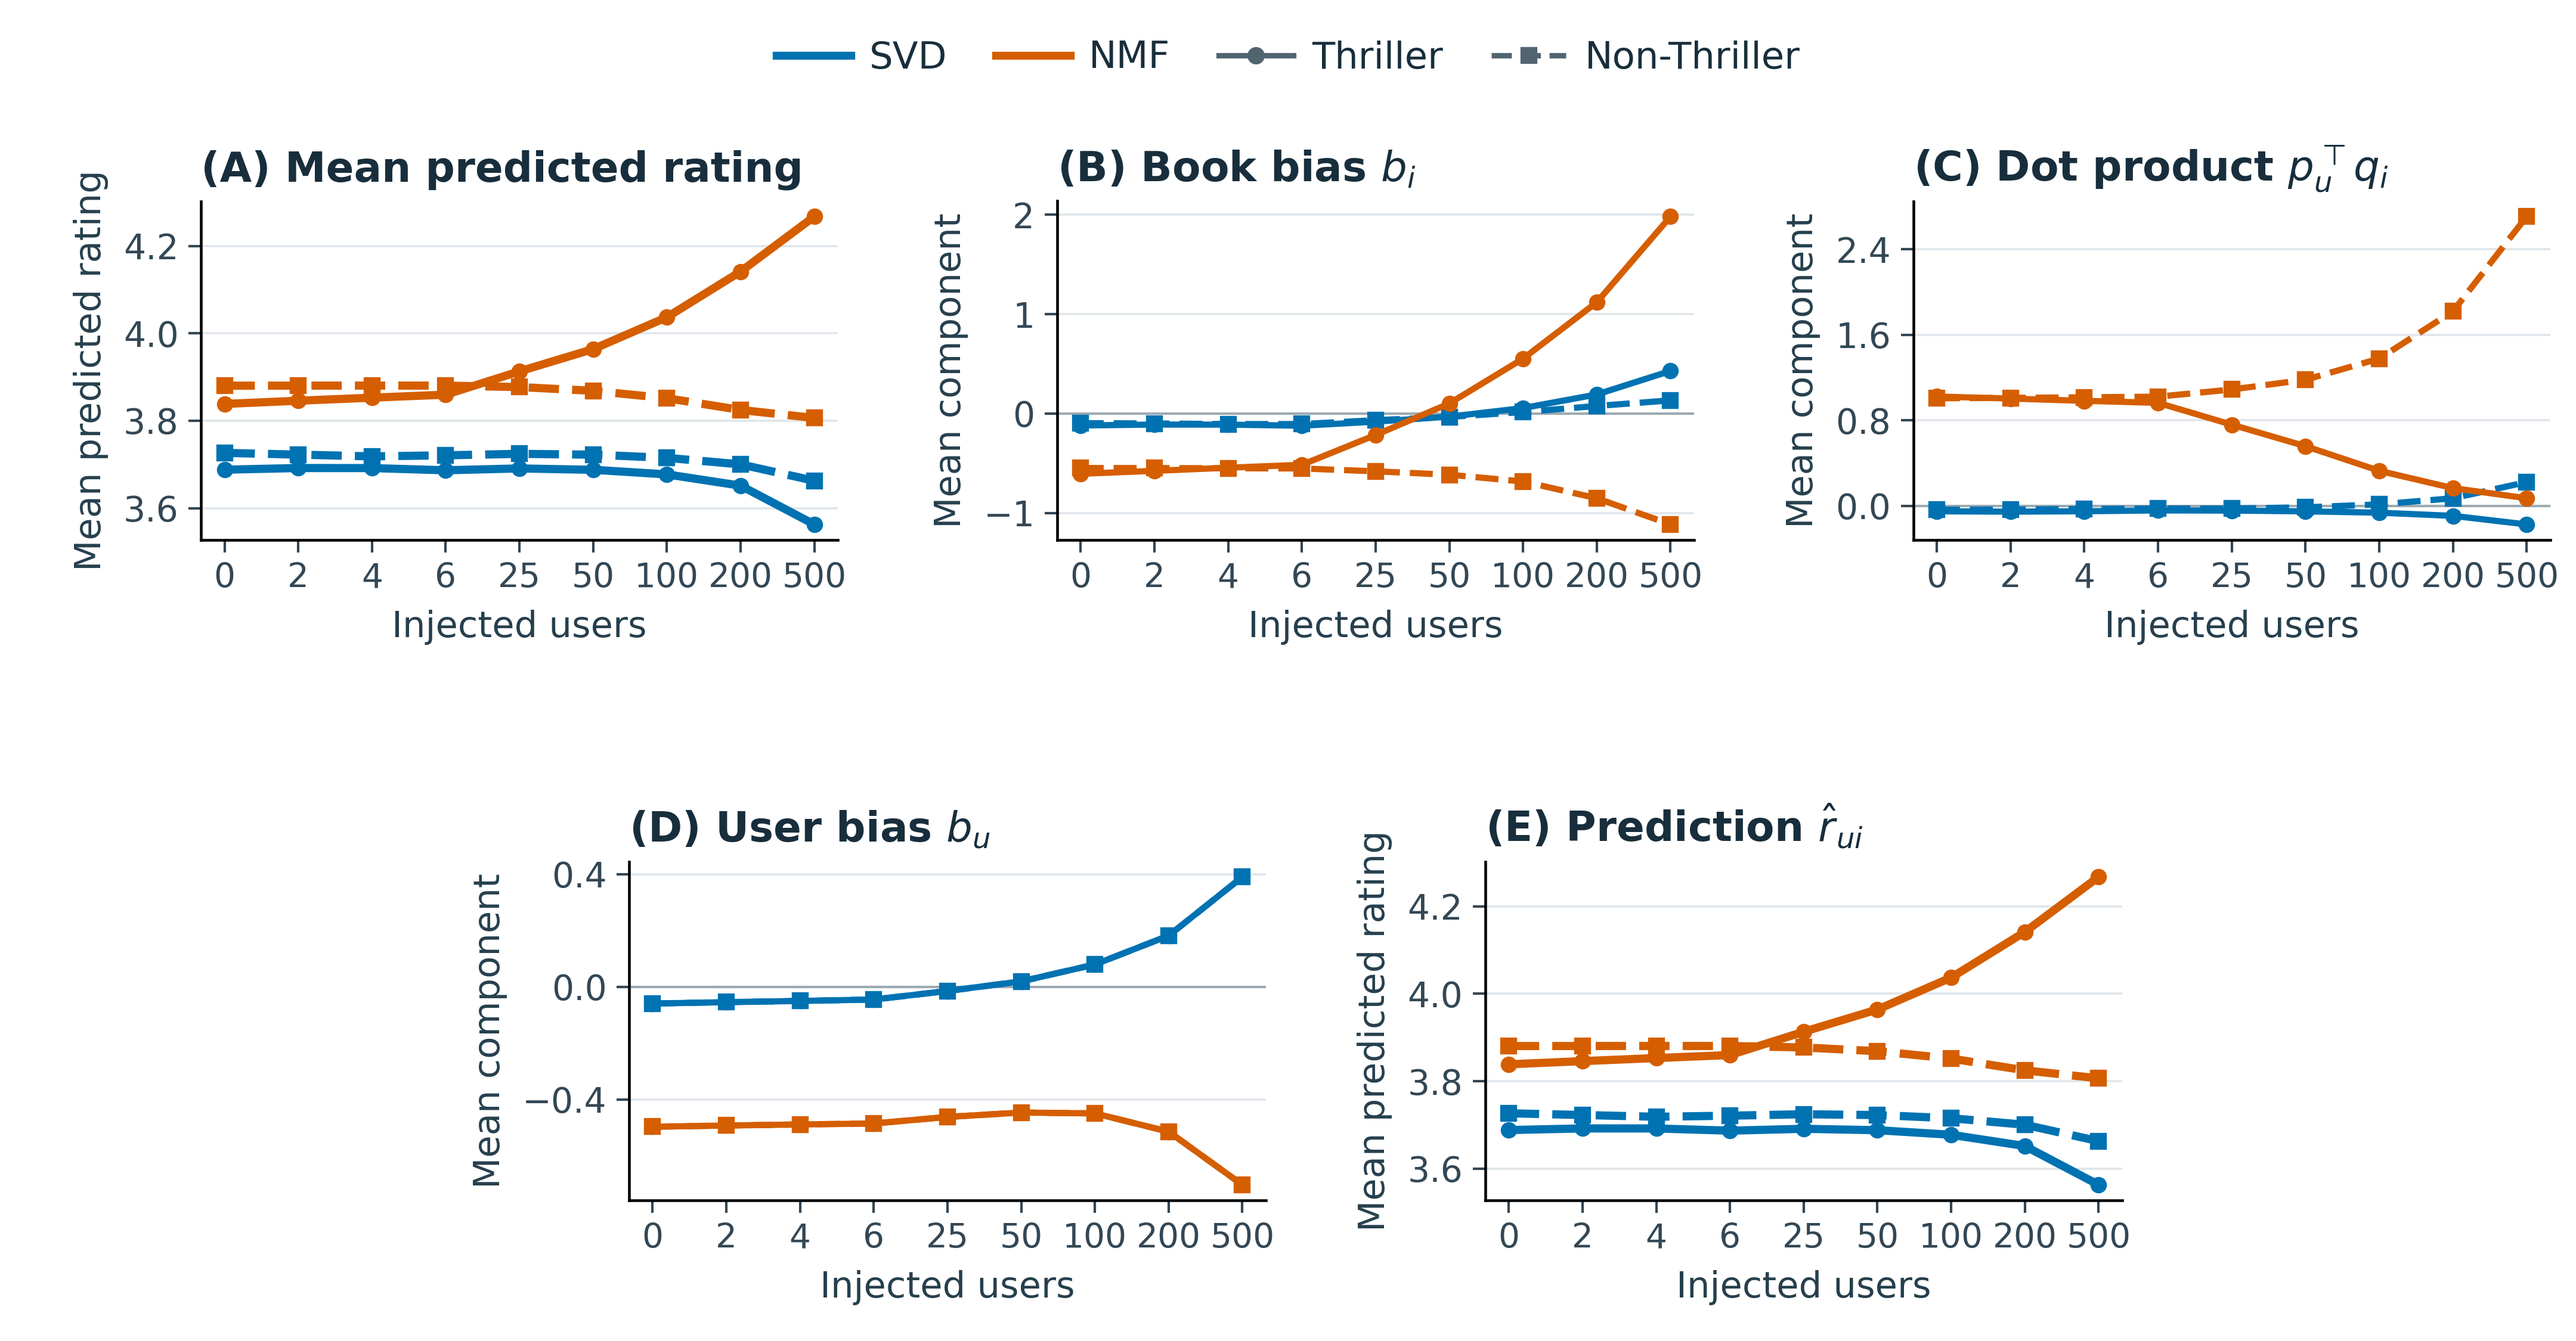
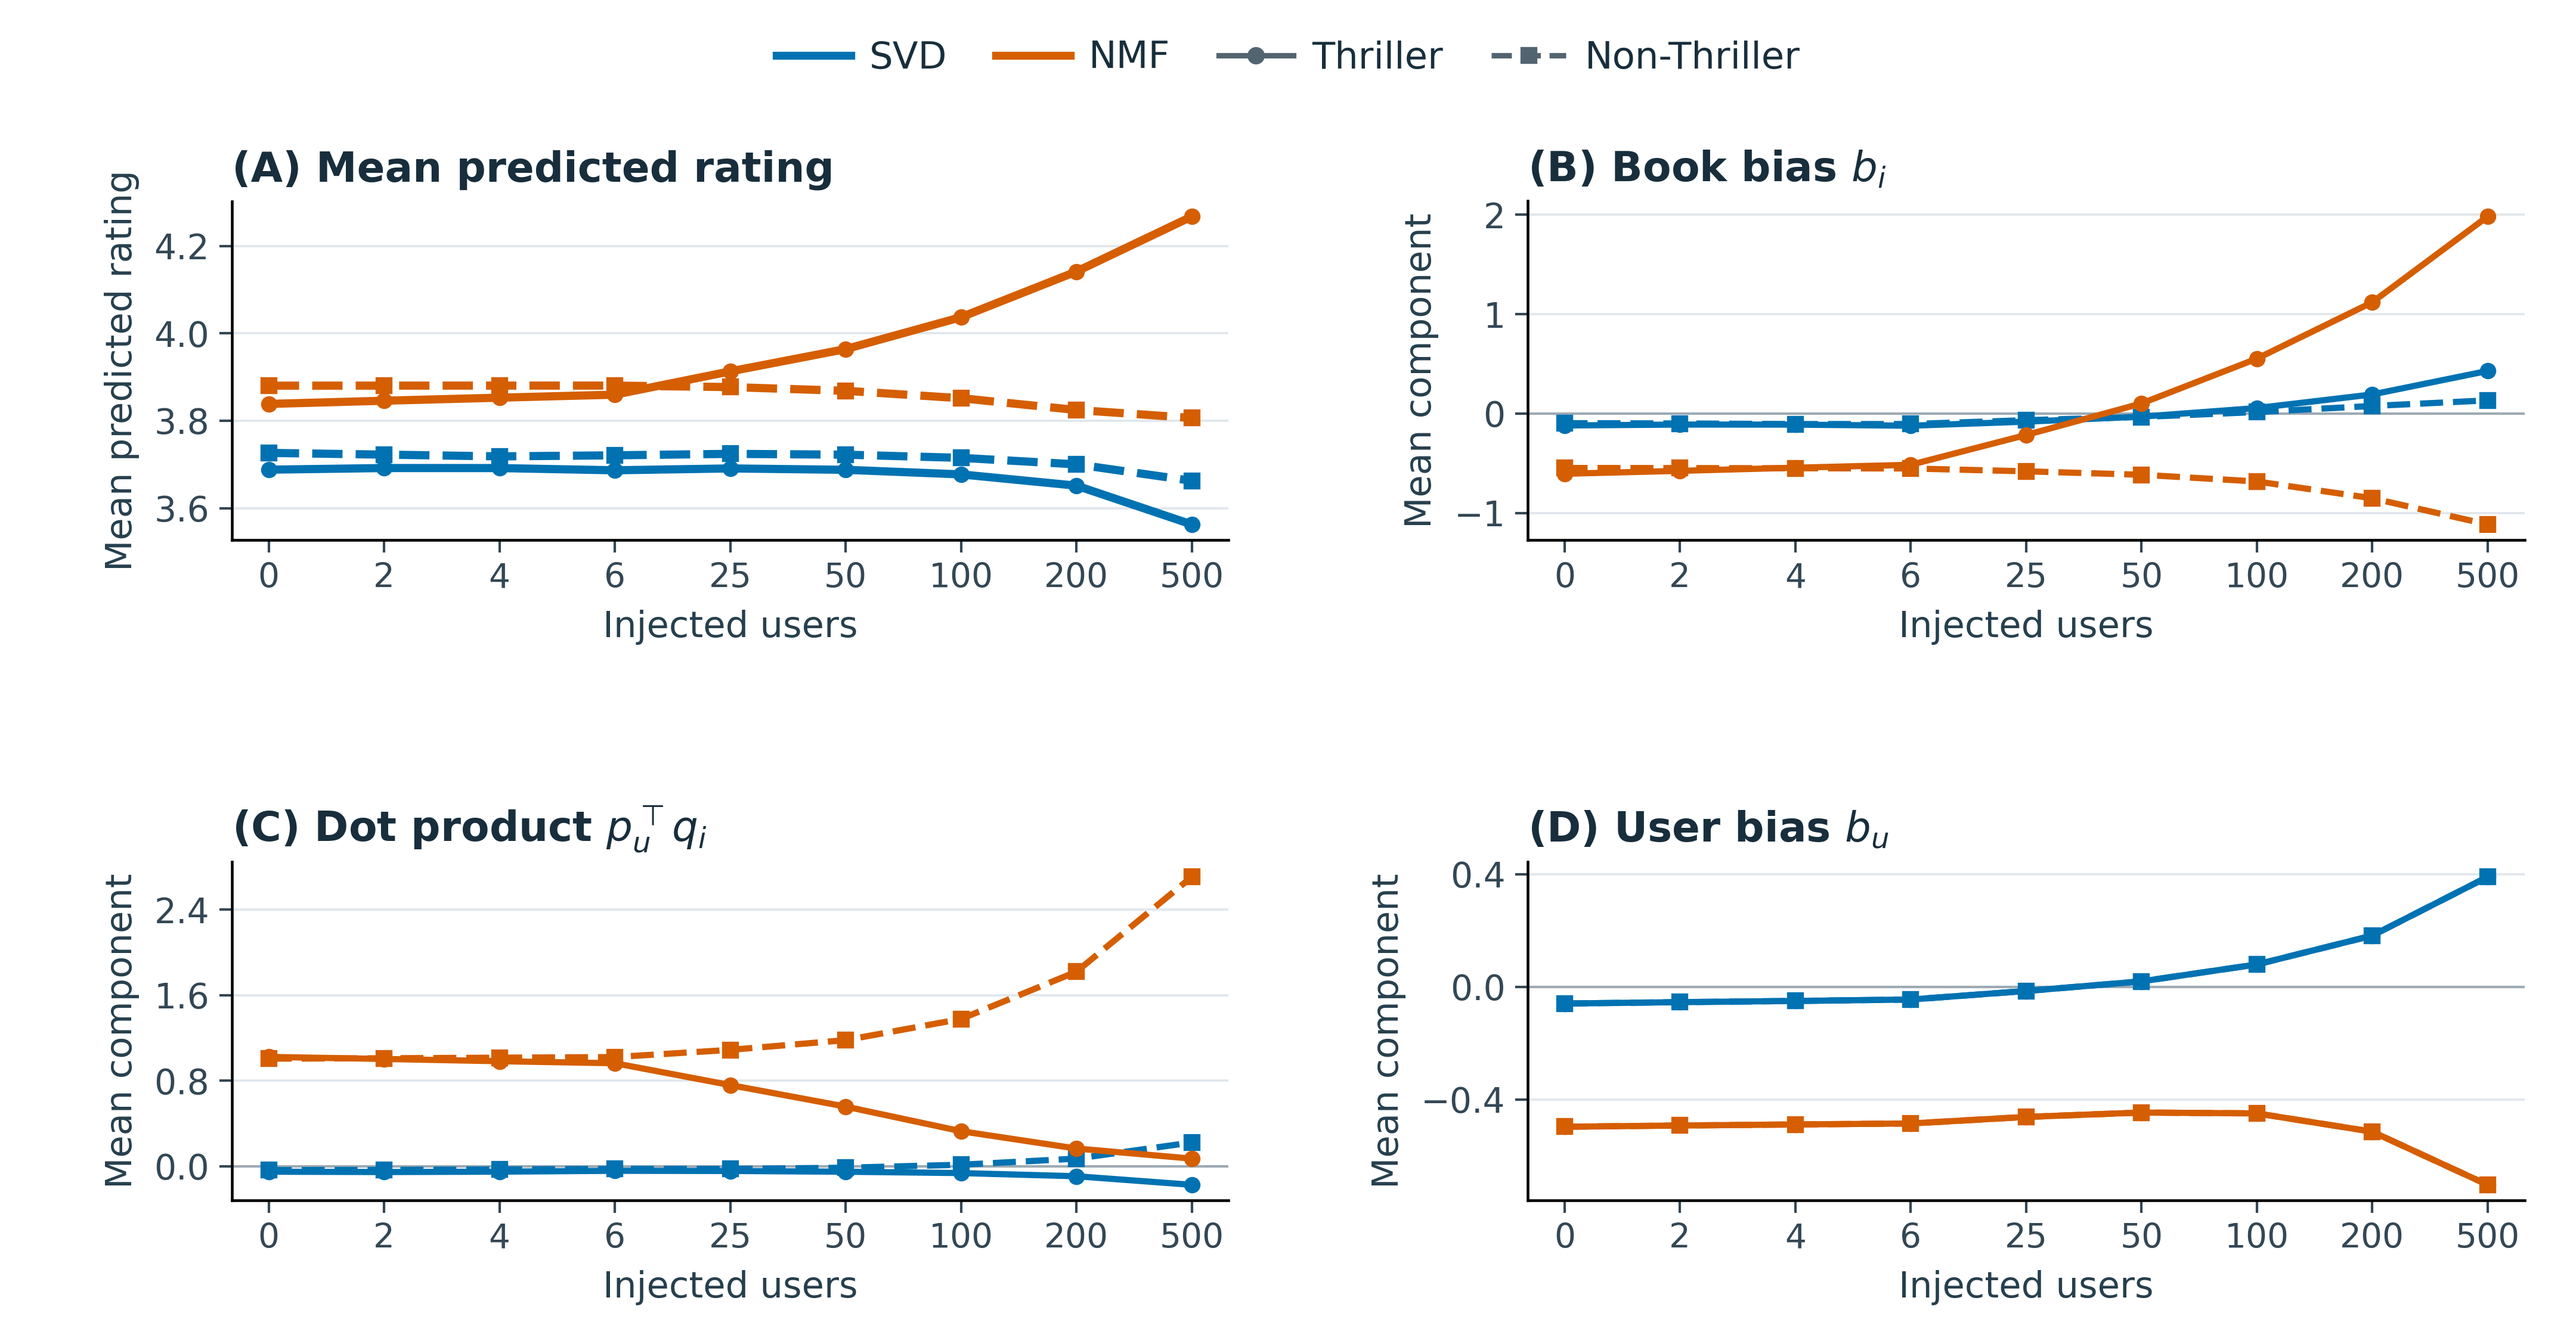
Remove duplicate prediction panel and use four-panel layout

diff --git a/First_paper_material/notebook/build_thriller_compact_paper_figures.py b/First_paper_material/notebook/build_thriller_compact_paper_figures.py
@@ -26,9 +26,14 @@ for view,name in [
  ns=([2,4,6,25,50,100,200,500] if view=='synthetic_training' else [0,2,4,6,25,50,100,200,500])
  x=np.arange(len(ns));f=source[(source.genre=='Thriller')&(source.view==view)]
  fig=plt.figure(figsize=(7.2,3.75))
- grid=fig.add_gridspec(2,6)
- axs=[fig.add_subplot(grid[0,0:2]),fig.add_subplot(grid[0,2:4]),fig.add_subplot(grid[0,4:6]),fig.add_subplot(grid[1,1:3]),fig.add_subplot(grid[1,3:5])]
- panels=[('mae','(A) Training MAE','Mean absolute error'),('mean_bi',r'(B) Book bias $b_i$','Mean component'),('mean_interaction',r'(C) Dot product $p_u^\top q_i$','Mean component'),('mean_bu',r'(D) User bias $b_u$','Mean component'),('mean_prediction',r'(E) Prediction $\hat r_{ui}$','Mean predicted rating')]
+ if view=='real_unseen_prediction':
+  grid=fig.add_gridspec(2,2)
+  axs=[fig.add_subplot(grid[0,0]),fig.add_subplot(grid[0,1]),fig.add_subplot(grid[1,0]),fig.add_subplot(grid[1,1])]
+  panels=[('mean_prediction','(A) Mean predicted rating','Mean predicted rating'),('mean_bi',r'(B) Book bias $b_i$','Mean component'),('mean_interaction',r'(C) Dot product $p_u^\top q_i$','Mean component'),('mean_bu',r'(D) User bias $b_u$','Mean component')]
+ else:
+  grid=fig.add_gridspec(2,6)
+  axs=[fig.add_subplot(grid[0,0:2]),fig.add_subplot(grid[0,2:4]),fig.add_subplot(grid[0,4:6]),fig.add_subplot(grid[1,1:3]),fig.add_subplot(grid[1,3:5])]
+  panels=[('mae','(A) Training MAE','Mean absolute error'),('mean_bi',r'(B) Book bias $b_i$','Mean component'),('mean_interaction',r'(C) Dot product $p_u^\top q_i$','Mean component'),('mean_bu',r'(D) User bias $b_u$','Mean component'),('mean_prediction',r'(E) Prediction $\hat r_{ui}$','Mean predicted rating')]
  rows=[]
  for pi,(ax,(key,title,ylabel)) in enumerate(zip(axs,panels)):
   if view=='real_unseen_prediction' and pi==0:
@@ -69,7 +74,7 @@ for view,name in [
  handles=[Line2D([0],[0],color=COLORS['svd'],lw=1.6,label='SVD'),Line2D([0],[0],color=COLORS['nmf'],lw=1.6,label='NMF'),Line2D([0],[0],color='#536471',lw=1.1,marker='o',ms=2.5,label='Thriller'),Line2D([0],[0],color='#536471',lw=1.1,ls='--',marker='s',ms=2.5,label='Non-Thriller')]
  if view!='real_unseen_prediction':handles.append(Line2D([0],[0],color='#777777',lw=.9,label='Recorded rating (E)'))
  fig.legend(handles=handles,loc='upper center',bbox_to_anchor=(.5,.995),ncol=len(handles),frameon=False,fontsize=7.5,columnspacing=1.3,handlelength=2.0,handletextpad=.5)
- fig.subplots_adjust(left=.078,right=.99,bottom=.105,top=.85,hspace=.95,wspace=1.05)
+ fig.subplots_adjust(left=.09,right=.98,bottom=.105,top=.85,hspace=.95,wspace=.30 if view=='real_unseen_prediction' else 1.05)
  # No figure title or explanatory footer: manuscript captions carry context.
  fig.canvas.draw();renderer=fig.canvas.get_renderer()
  for ax in axs:
@@ -77,7 +82,7 @@ for view,name in [
   assert box.x0>=-1 and box.y0>=-1 and box.x1<=fig.bbox.width+1 and box.y1<=fig.bbox.height+1,(name,box.bounds)
  path=OUT/name;fig.savefig(path,dpi=600);plt.close(fig)
  im=Image.open(path);assert im.size==(4320,2250)
- validation.append(dict(file=str(path),view=view,pixel_size=im.size,figure_inches=[7.2,3.75],panels=5,n_fake=ns,main_title=False,footer_caption=False,plotted_series=rows,sha256=hashlib.sha256(path.read_bytes()).hexdigest()))
+ validation.append(dict(file=str(path),view=view,pixel_size=im.size,figure_inches=[7.2,3.75],panels=len(axs),n_fake=ns,main_title=False,footer_caption=False,plotted_series=rows,sha256=hashlib.sha256(path.read_bytes()).hexdigest()))
  print(path,flush=True)
 validation_path=NB/'thriller_compact_paper_figures_validation.json'
 if '--prediction-only' in sys.argv and validation_path.exists():
